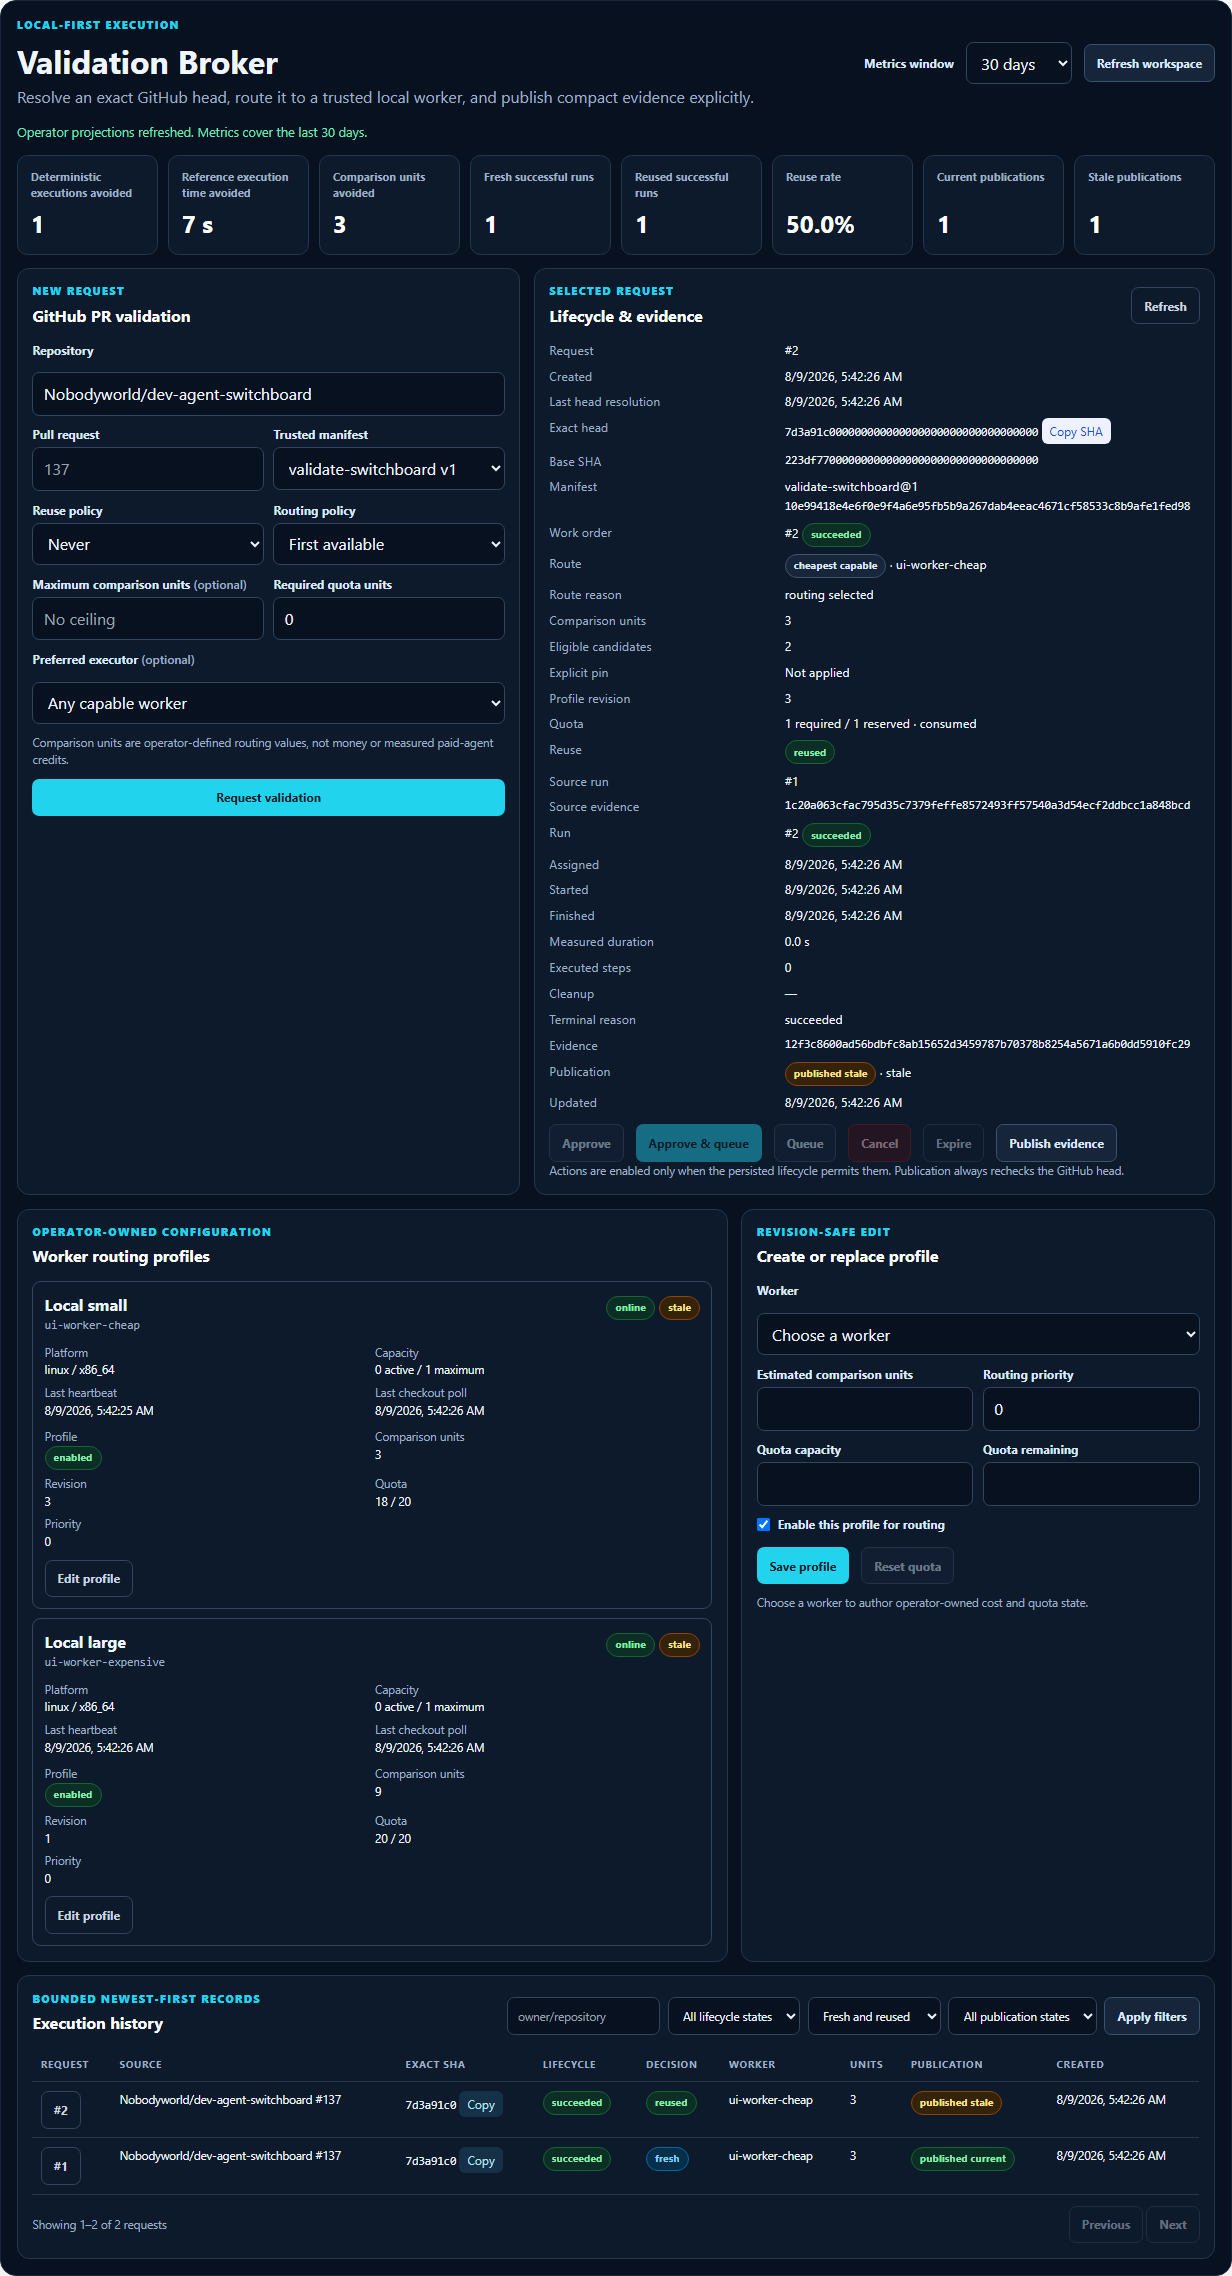
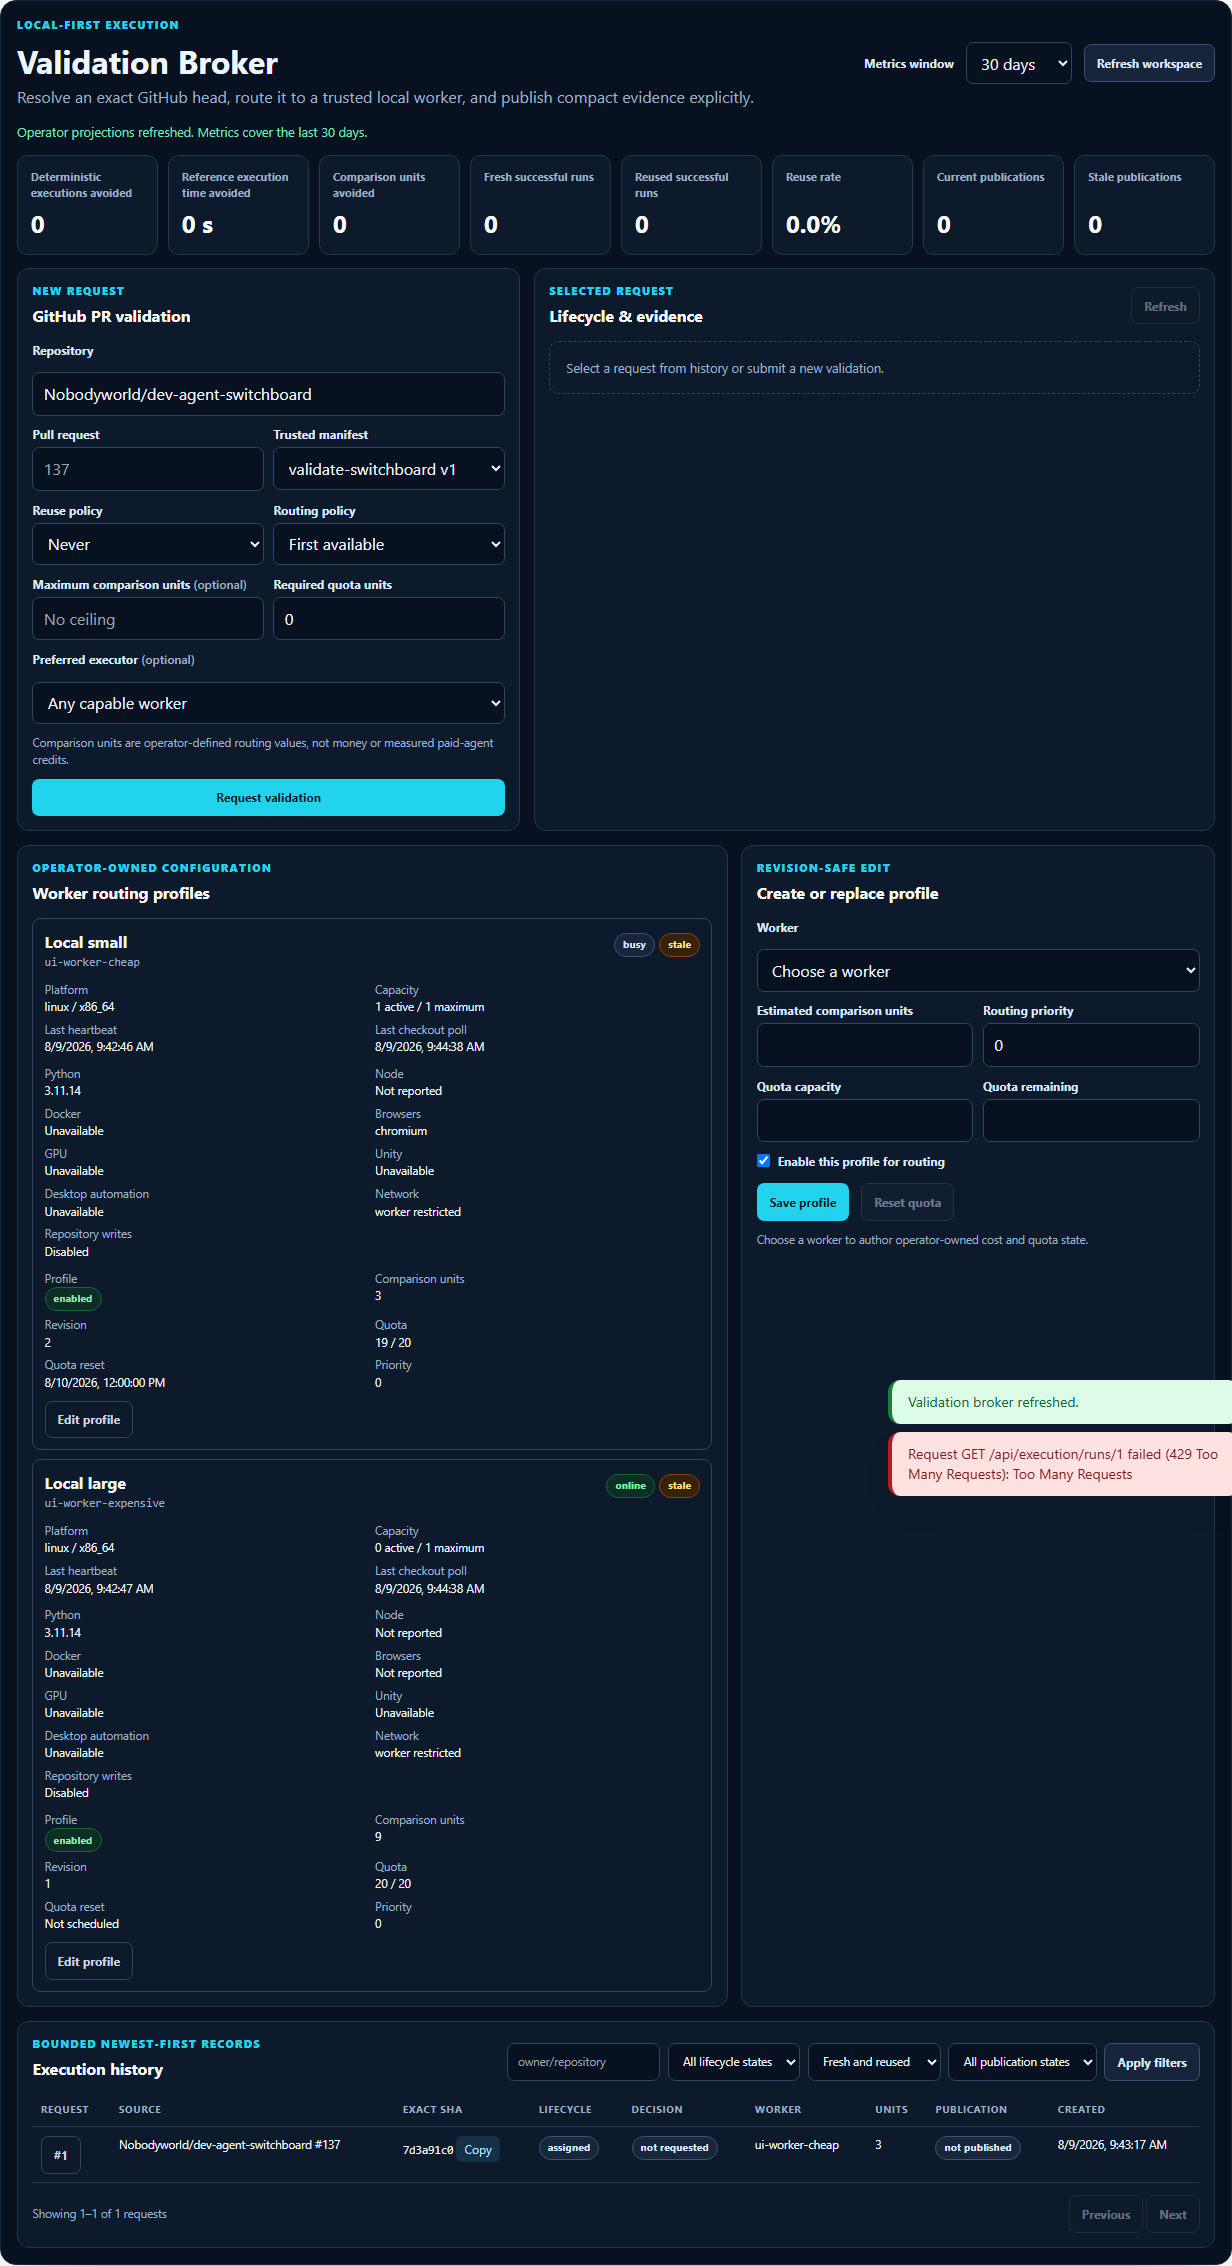
fix(operator): complete command center details

diff --git a/web/static/validation_broker.js b/web/static/validation_broker.js
@@ -83,6 +83,19 @@ function formatDate(value) {
   return Number.isNaN(date.valueOf()) ? '—' : date.toLocaleString();
 }
 
+function formatQuotaReset(value) {
+  if (!value) return 'Not scheduled';
+  const formatted = formatDate(value);
+  return formatted === '—' ? 'Not available' : formatted;
+}
+
+function timezoneAwareIso(value) {
+  if (!value) return null;
+  const normalized = /(?:Z|[+-]\d{2}:\d{2})$/i.test(value) ? value : `${value}Z`;
+  const date = new Date(normalized);
+  return Number.isNaN(date.valueOf()) ? null : date.toISOString();
+}
+
 function formatLabel(value) {
   return value ? String(value).replaceAll('_', ' ') : '—';
 }
@@ -186,6 +199,9 @@ function renderWorkers() {
   container.innerHTML = brokerState.workers
     .map((worker) => {
       const profile = worker.profile;
+      const browsers = Array.isArray(worker.browsers) && worker.browsers.length
+        ? worker.browsers.join(', ')
+        : 'Not reported';
       const profileDetails = profile
         ? `
           <dl>
@@ -193,6 +209,7 @@ function renderWorkers() {
             <div><dt>Comparison units</dt><dd>${formatInteger(profile.estimated_cost_units_per_run)}</dd></div>
             <div><dt>Revision</dt><dd>${formatInteger(profile.revision)}</dd></div>
             <div><dt>Quota</dt><dd>${formatInteger(profile.quota_remaining_units)} / ${formatInteger(profile.quota_capacity_units)}</dd></div>
+            <div><dt>Quota reset</dt><dd>${escapeHtml(formatQuotaReset(profile.quota_reset_at))}</dd></div>
             <div><dt>Priority</dt><dd>${formatInteger(profile.routing_priority)}</dd></div>
           </dl>
         `
@@ -211,6 +228,17 @@ function renderWorkers() {
             <div><dt>Capacity</dt><dd>${formatInteger(worker.active_run_count)} active / ${formatInteger(worker.max_concurrency)} maximum</dd></div>
             <div><dt>Last heartbeat</dt><dd>${escapeHtml(formatDate(worker.last_heartbeat_at))}</dd></div>
             <div><dt>Last checkout poll</dt><dd>${escapeHtml(formatDate(worker.last_checkout_poll_at))}</dd></div>
+          </dl>
+          <dl>
+            <div><dt>Python</dt><dd>${escapeHtml(worker.python_version || 'Not reported')}</dd></div>
+            <div><dt>Node</dt><dd>${escapeHtml(worker.node_version || 'Not reported')}</dd></div>
+            <div><dt>Docker</dt><dd>${worker.docker_available ? 'Available' : 'Unavailable'}</dd></div>
+            <div><dt>Browsers</dt><dd>${escapeHtml(browsers)}</dd></div>
+            <div><dt>GPU</dt><dd>${worker.gpu_available ? 'Available' : 'Unavailable'}</dd></div>
+            <div><dt>Unity</dt><dd>${worker.unity_available ? 'Available' : 'Unavailable'}</dd></div>
+            <div><dt>Desktop automation</dt><dd>${worker.desktop_available ? 'Available' : 'Unavailable'}</dd></div>
+            <div><dt>Network</dt><dd>${escapeHtml(formatLabel(worker.network_policy_capability))}</dd></div>
+            <div><dt>Repository writes</dt><dd>${worker.repository_write_capability ? 'Enabled' : 'Disabled'}</dd></div>
           </dl>
           ${profileDetails}
           <button type="button" class="broker-button broker-button--quiet" data-profile-edit="${escapeHtml(worker.worker_id)}">${profile ? 'Edit profile' : 'Create profile'}</button>
@@ -320,20 +348,24 @@ function renderRequestDetail() {
   container.innerHTML = `
     <dl class="broker-detail-list">
       <dt>Request</dt><dd>#${request.request_id}</dd>
+      <dt>Repository</dt><dd>${escapeHtml(request.repository_full_name)}</dd>
+      <dt>Pull request</dt><dd>#${formatInteger(request.pull_request_number)}</dd>
       <dt>Created</dt><dd>${escapeHtml(formatDate(request.created_at))}</dd>
       <dt>Last head resolution</dt><dd>${escapeHtml(formatDate(request.last_resolved_at))}</dd>
       <dt>Exact head</dt><dd><span class="broker-code">${escapeHtml(request.tested_head_sha)}</span> <button type="button" class="copy-button" data-copy-value="${escapeHtml(request.tested_head_sha)}" data-copy-label="Head SHA">Copy SHA</button></dd>
       <dt>Base SHA</dt><dd class="broker-code">${escapeHtml(request.base_sha)}</dd>
       <dt>Manifest</dt><dd>${escapeHtml(`${request.manifest_name}@${request.manifest_version}`)} <span class="broker-code">${escapeHtml(request.manifest_digest)}</span></dd>
       <dt>Work order</dt><dd>#${request.work_order_id} ${badge(status, stateTone(status))}</dd>
-      <dt>Route</dt><dd>${badge(request.routing_policy)} · ${escapeHtml(selectedWorker || 'Not available')}</dd>
+      <dt>Reuse policy</dt><dd>${badge(request.reuse_policy)}</dd>
+      <dt>Routing policy</dt><dd>${badge(request.routing_policy)}</dd>
+      <dt>Selected route</dt><dd>${escapeHtml(selectedWorker || 'Not available')}</dd>
       <dt>Route reason</dt><dd>${escapeHtml(formatLabel(route?.reason))}</dd>
       <dt>Comparison units</dt><dd>${formatInteger(route?.estimated_cost_units ?? projection.estimated_cost_units)}</dd>
       <dt>Eligible candidates</dt><dd>${formatInteger(route?.eligible_candidate_count)}</dd>
       <dt>Explicit pin</dt><dd>${route ? (route.explicit_pin_applied ? 'Applied' : 'Not applied') : 'Not available'}</dd>
       <dt>Profile revision</dt><dd>${formatInteger(route?.selected_routing_profile_revision)}</dd>
       <dt>Quota</dt><dd>${formatInteger(route?.required_quota_units ?? request.required_quota_units)} required / ${formatInteger(route?.reserved_quota_units)} reserved · ${escapeHtml(formatLabel(route?.quota_reservation_state))}</dd>
-      <dt>Reuse</dt><dd>${badge(reuseDecision, stateTone(reuseDecision))}</dd>
+      <dt>Reuse decision</dt><dd>${badge(reuseDecision, stateTone(reuseDecision))}</dd>
       <dt>Source run</dt><dd>${sourceRunId ? `#${formatInteger(sourceRunId)}` : 'Not available'}</dd>
       <dt>Source evidence</dt><dd class="broker-code">${escapeHtml(sourceFingerprint || 'Not available')}</dd>
       <dt>Run</dt><dd>${run ? `#${run.id} ${badge(run.status, stateTone(run.status))}` : 'Not available'}</dd>
@@ -593,7 +625,7 @@ async function handleProfileSubmit(event) {
     estimated_cost_units_per_run: Number(data.get('estimated_cost_units_per_run')),
     quota_capacity_units: Number(data.get('quota_capacity_units')),
     quota_remaining_units: Number(data.get('quota_remaining_units')),
-    quota_reset_at: worker.profile?.quota_reset_at || null,
+    quota_reset_at: timezoneAwareIso(worker.profile?.quota_reset_at),
     routing_priority: Number(data.get('routing_priority')),
   };
   const existing = worker.profile;

diff --git a/web/tests/test_ui.py b/web/tests/test_ui.py
@@ -234,8 +234,7 @@ def test_two_agent_dependency_flow_updates_dashboard(
         page.goto(f"{app_server}/", wait_until="domcontentloaded")
         page.wait_for_selector("#tasks")
 
-        task_ids = page.evaluate(
-            """async () => {
+        task_script = """async () => {
                                         const jsonHeaders = {
                                             'Content-Type': 'application/json',
                                         };
@@ -276,7 +275,7 @@ def test_two_agent_dependency_flow_updates_dashboard(
 
                                         return { taskAId: taskA.id, taskBId: taskB.id };
                                 }"""
-        )
+        task_ids = page.evaluate(task_script)
 
         page.wait_for_selector('tr:has-text("Task A")')
         page.wait_for_selector('tr:has-text("Task B")')
@@ -463,6 +462,10 @@ def test_validation_broker_operator_workflow_is_accessible_and_responsive(  # no
                 **worker_base,
                 "worker_id": "ui-worker-cheap",
                 "display_name": "Local small",
+                "browsers": ["chromium"],
+                "capabilities": {
+                    "internal_marker": "not-for-operator-ui",
+                },
             },
         )
         _post_json(
@@ -494,7 +497,11 @@ def test_validation_broker_operator_workflow_is_accessible_and_responsive(  # no
                     "estimated_cost_units_per_run": cost,
                     "quota_capacity_units": 20,
                     "quota_remaining_units": 20,
-                    "quota_reset_at": None,
+                    "quota_reset_at": (
+                        "2026-08-10T12:00:00Z"
+                        if worker_id == "ui-worker-cheap"
+                        else None
+                    ),
                     "routing_priority": 0,
                 },
             )
@@ -526,6 +533,28 @@ def test_validation_broker_operator_workflow_is_accessible_and_responsive(  # no
         expect(page.locator('[data-worker-id="ui-worker-cheap"]')).to_contain_text(
             "enabled"
         )
+        cheap_worker_card = page.locator('[data-worker-id="ui-worker-cheap"]')
+        expect(cheap_worker_card).to_contain_text("Python")
+        expect(cheap_worker_card).to_contain_text("3.11.14")
+        expect(cheap_worker_card).to_contain_text("Node")
+        expect(cheap_worker_card).to_contain_text("Not reported")
+        expect(cheap_worker_card).to_contain_text("Docker")
+        expect(cheap_worker_card).to_contain_text("Unavailable")
+        expect(cheap_worker_card).to_contain_text("Browsers")
+        expect(cheap_worker_card).to_contain_text("chromium")
+        expect(cheap_worker_card).to_contain_text("GPU")
+        expect(cheap_worker_card).to_contain_text("Unity")
+        expect(cheap_worker_card).to_contain_text("Desktop automation")
+        expect(cheap_worker_card).to_contain_text("worker restricted")
+        expect(cheap_worker_card).to_contain_text("Repository writes")
+        expect(cheap_worker_card).to_contain_text("Disabled")
+        expect(cheap_worker_card).to_contain_text("Quota reset")
+        expect(cheap_worker_card).to_contain_text("2026")
+        expensive_worker_card = page.locator('[data-worker-id="ui-worker-expensive"]')
+        expect(expensive_worker_card).to_contain_text("Quota reset")
+        expect(expensive_worker_card).to_contain_text("Not scheduled")
+        assert "internal_marker" not in page.locator("#brokerWorkers").inner_text()
+        assert "not-for-operator-ui" not in page.locator("#brokerWorkers").inner_text()
 
         page.select_option("#profileWorker", "ui-worker-new")
         page.fill("#profileCost", "12")
@@ -589,7 +618,28 @@ def test_validation_broker_operator_workflow_is_accessible_and_responsive(  # no
             "() => document.querySelector('#brokerRequestDetail')?.textContent"
             ".includes('7d3a91c')"
         )
-        expect(page.locator("#brokerRequestDetail")).to_contain_text("pending approval")
+        request_detail = page.locator("#brokerRequestDetail")
+        expect(request_detail).to_contain_text("pending approval")
+        expect(
+            request_detail.locator("dt", has_text="Repository").locator(
+                "xpath=following-sibling::dd[1]"
+            )
+        ).to_have_text("Nobodyworld/dev-agent-switchboard")
+        expect(
+            request_detail.locator("dt", has_text="Pull request").locator(
+                "xpath=following-sibling::dd[1]"
+            )
+        ).to_have_text("#137")
+        expect(
+            request_detail.locator("dt", has_text="Reuse policy").locator(
+                "xpath=following-sibling::dd[1]"
+            )
+        ).to_contain_text("never")
+        expect(
+            request_detail.locator("dt", has_text="Routing policy").locator(
+                "xpath=following-sibling::dd[1]"
+            )
+        ).to_contain_text("cheapest capable")
         page.click('[data-request-action="approve-queue"]')
         page.wait_for_function(
             "() => document.querySelector('#brokerRequestDetail')?.textContent"
@@ -619,6 +669,11 @@ def test_validation_broker_operator_workflow_is_accessible_and_responsive(  # no
         expect(fresh_detail).to_contain_text("7 s")
         expect(fresh_detail).to_contain_text("Cleanup")
         expect(fresh_detail).to_contain_text("succeeded")
+        expect(
+            fresh_detail.locator("dt", has_text="Reuse decision").locator(
+                "xpath=following-sibling::dd[1]"
+            )
+        ).to_contain_text("fresh")
 
         dialogs: list[str] = []
 
@@ -658,6 +713,16 @@ def test_validation_broker_operator_workflow_is_accessible_and_responsive(  # no
         expect(reused_detail).to_contain_text(fresh["evidence_fingerprint"])
         expect(reused_detail).to_contain_text("Executed steps")
         expect(reused_detail).to_contain_text("0")
+        expect(
+            reused_detail.locator("dt", has_text="Reuse policy").locator(
+                "xpath=following-sibling::dd[1]"
+            )
+        ).to_contain_text("allow exact")
+        expect(
+            reused_detail.locator("dt", has_text="Reuse decision").locator(
+                "xpath=following-sibling::dd[1]"
+            )
+        ).to_contain_text("reused")
         page.click('[data-request-action="publish"]')
         page.wait_for_function(
             "() => document.querySelector('#brokerRequestDetail')?.textContent"
@@ -704,8 +769,7 @@ def test_validation_broker_operator_workflow_is_accessible_and_responsive(  # no
 
         page.set_viewport_size({"width": 390, "height": 844})
         expect(page.locator("#validation-broker")).to_be_visible()
-        overflow = page.evaluate(
-            """() => ({
+        overflow_script = """() => ({
                 contained: document.documentElement.scrollWidth <= window.innerWidth,
                 offenders: [...document.querySelectorAll('body *')]
                     .filter(
@@ -720,7 +784,7 @@ def test_validation_broker_operator_workflow_is_accessible_and_responsive(  # no
                         right: node.getBoundingClientRect().right,
                     })),
             })"""
-        )
+        overflow = page.evaluate(overflow_script)
         assert overflow["contained"], overflow["offenders"]
         assert "ui-admin-sentinel" not in page.url
         assert all("ui-admin-sentinel" not in message for message in console_errors)
